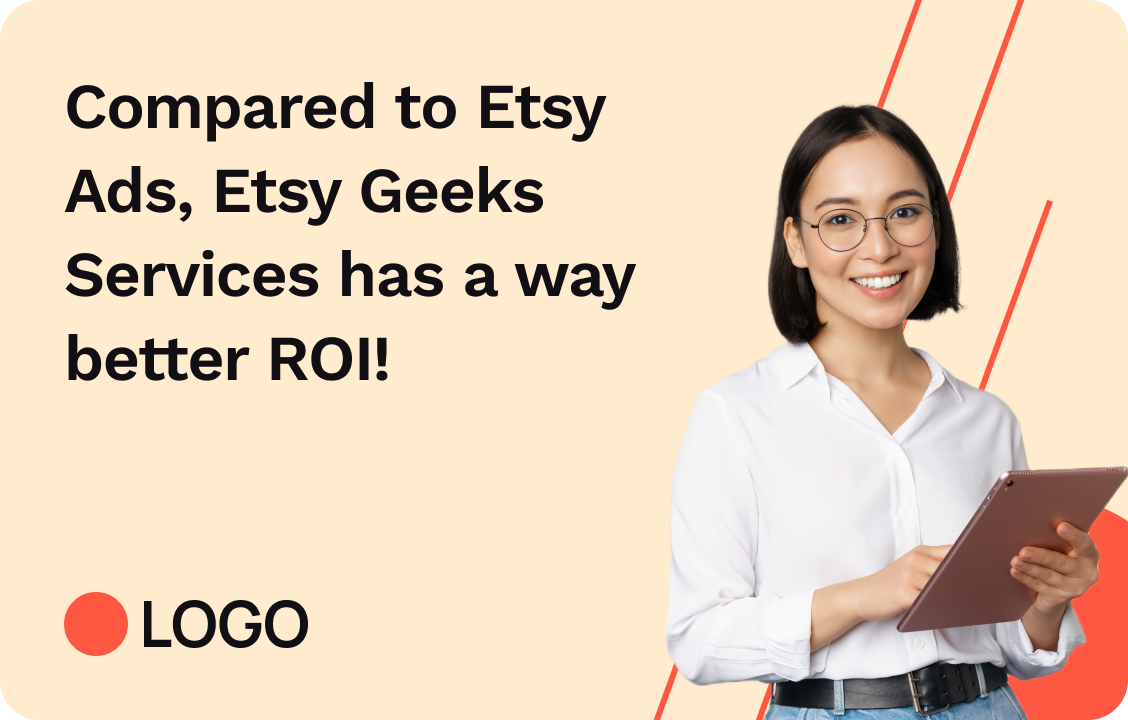
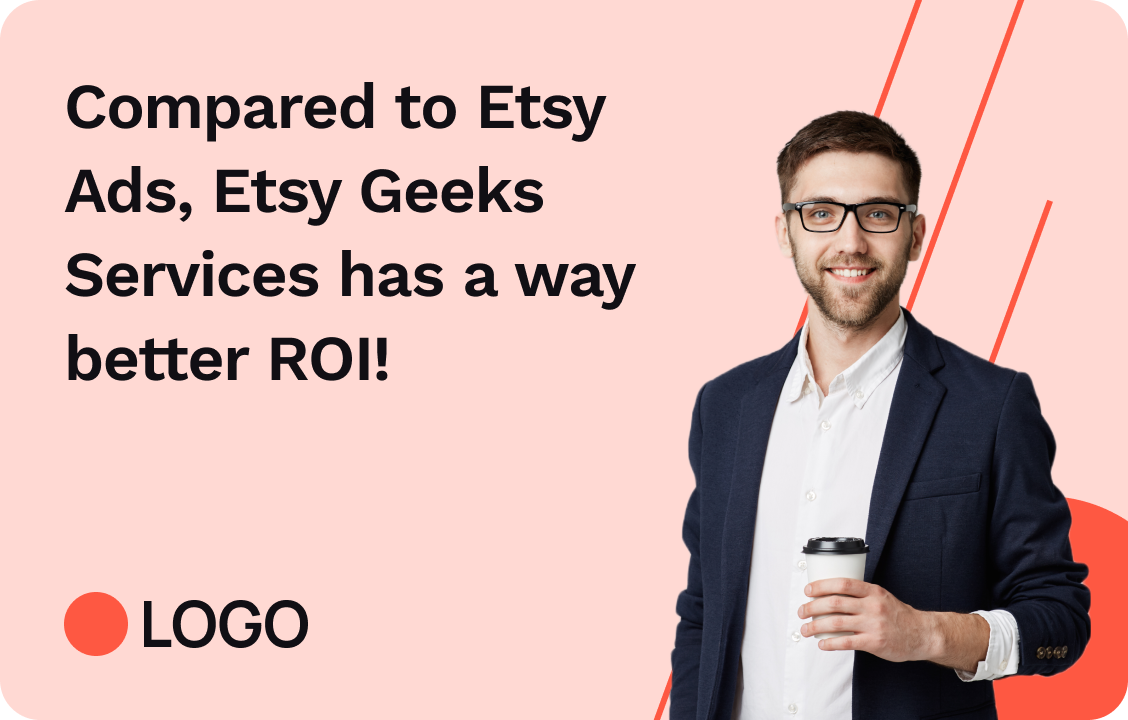
fix: change images

Changed region(s): [[0.5895, 0.1222, 1.0, 1.0]]

diff --git a/index.html b/index.html
@@ -12,7 +12,7 @@
 
   </head>
   <body>
-  <div id="overlay" onclick="off()"></div>
+  <div id="overlay"></div>
   <nav class="bg-rb-secondary fixed w-full z-20 top-0 left-0">
     <div class="container flex flex-wrap items-center justify-between mx-auto p-4">
       <a href="https://flowbite.com/" class="flex items-center">
@@ -526,9 +526,11 @@
         
         <div class="swiper swipperSuccessStory md:h-[24rem]">
           <div class="swiper-wrapper">
+            
+    
             <div class="swiper-slide swipper-success-story">
               <div class="rounded-[16px] block max-w-sm p-5 shadow-lg shadow-black-500/50 bg-white  shadow-black-500/50   hover:bg-gray-100 ">
-                <img src="./src/assets/images/rb_images_success_story-4.png" class="w-full h-auto sm:h-[150px]  md:h-[150px]  lg:h-[150px]  xl:h-auto  mb-[16px]" alt="">
+                <img src="./src/assets/images/rb_images_success_story-1.png" class="w-full h-auto sm:h-[150px]  md:h-[150px]  lg:h-[150px]  xl:h-auto  mb-[16px]" alt="">
               
                 <label for="" class="mt-4 text-bs-black-secondary text-[16px]	font-medium	">Jun 1, 2022</label>
                 <p class="text-bs-black-primary font-semibold text-[18px]	leading-[22px] h-[84px] mt-[8px]">Compared to Etsy Ads, Etsy Geeks Services has a way better ROI!</p>
@@ -543,7 +545,7 @@
             </div>
             <div class="swiper-slide">
               <div class="rounded-[16px] block max-w-sm p-5 shadow-lg shadow-black-500/50 bg-white  shadow-black-500/50   hover:bg-gray-100 ">
-                <img src="./src/assets/images/rb_images_success_story-4.png" class="w-full h-auto sm:h-[150px]  md:h-[150px]  lg:h-[150px]  xl:h-auto  mb-[16px]" alt="">
+                <img src="./src/assets/images/rb_images_success_story-2.png" class="w-full h-auto sm:h-[150px]  md:h-[150px]  lg:h-[150px]  xl:h-auto  mb-[16px]" alt="">
               
                 <label for="" class="mt-4 text-bs-black-secondary text-[16px]	font-medium	">Jun 1, 2022</label>
                 <p class="text-bs-black-primary font-semibold text-[18px]	leading-[22px] h-[84px] mt-[8px]">Compared to Etsy Ads, Etsy Geeks Services has a way better ROI!</p>
@@ -558,37 +560,7 @@
             </div>
             <div class="swiper-slide">
               <div class="rounded-[16px] block max-w-sm p-5 shadow-lg shadow-black-500/50 bg-white  shadow-black-500/50   hover:bg-gray-100 ">
-                <img src="./src/assets/images/rb_images_success_story-4.png" class="w-full h-auto sm:h-[150px]  md:h-[150px]  lg:h-[150px]  xl:h-auto  mb-[16px]" alt="">
-              
-                <label for="" class="mt-4 text-bs-black-secondary text-[16px]	font-medium	">Jun 1, 2022</label>
-                <p class="text-bs-black-primary font-semibold text-[18px]	leading-[22px] h-[84px] mt-[8px]">Compared to Etsy Ads, Etsy Geeks Services has a way better ROI!</p>
-                <div class="flex justify-start mt-[6px]">
-                  <a href="" class="flex items-center gap-3 text-[16px]	font-semibold	hover:text-bs-red-primary focus:text-bs-red-primary leading-[24px]"> Read More 
-                    <svg class="w-4 h-4 shrink-0" fill="none" stroke="currentColor" stroke-width="1.5" viewBox="0 0 24 24" xmlns="http://www.w3.org/2000/svg" aria-hidden="true">
-                    <path stroke-linecap="round" stroke-linejoin="round" d="M13.5 4.5L21 12m0 0l-7.5 7.5M21 12H3"></path>
-                  </svg>
-                  </a>
-                </div>
-            </div>
-            </div>
-            <div class="swiper-slide">
-              <div class="rounded-[16px] block max-w-sm p-5 shadow-lg shadow-black-500/50 bg-white  shadow-black-500/50   hover:bg-gray-100 ">
-                <img src="./src/assets/images/rb_images_success_story-4.png" class="w-full h-auto sm:h-[150px]  md:h-[150px]  lg:h-[150px]  xl:h-auto  mb-[16px]" alt="">
-              
-                <label for="" class="mt-4 text-bs-black-secondary text-[16px]	font-medium	">Jun 1, 2022</label>
-                <p class="text-bs-black-primary font-semibold text-[18px]	leading-[22px] h-[84px] mt-[8px]">Compared to Etsy Ads, Etsy Geeks Services has a way better ROI!</p>
-                <div class="flex justify-start mt-[6px]">
-                  <a href="" class="flex items-center gap-3 text-[16px]	font-semibold	hover:text-bs-red-primary focus:text-bs-red-primary leading-[24px]"> Read More 
-                    <svg class="w-4 h-4 shrink-0" fill="none" stroke="currentColor" stroke-width="1.5" viewBox="0 0 24 24" xmlns="http://www.w3.org/2000/svg" aria-hidden="true">
-                    <path stroke-linecap="round" stroke-linejoin="round" d="M13.5 4.5L21 12m0 0l-7.5 7.5M21 12H3"></path>
-                  </svg>
-                  </a>
-                </div>
-            </div>
-            </div>
-            <div class="swiper-slide">
-              <div class="rounded-[16px] block max-w-sm p-5 shadow-lg shadow-black-500/50 bg-white  shadow-black-500/50   hover:bg-gray-100 ">
-                <img src="./src/assets/images/rb_images_success_story-4.png" class="w-full h-auto sm:h-[150px]  md:h-[150px]  lg:h-[150px]  xl:h-auto  mb-[16px]" alt="">
+                <img src="./src/assets/images/rb_images_success_story-3.png" class="w-full h-auto sm:h-[150px]  md:h-[150px]  lg:h-[150px]  xl:h-auto  mb-[16px]" alt="">
               
                 <label for="" class="mt-4 text-bs-black-secondary text-[16px]	font-medium	">Jun 1, 2022</label>
                 <p class="text-bs-black-primary font-semibold text-[18px]	leading-[22px] h-[84px] mt-[8px]">Compared to Etsy Ads, Etsy Geeks Services has a way better ROI!</p>
@@ -679,25 +651,25 @@
                         <figcaption class="flex items-center justify-start space-x-3">
                           <img class="rounded-full w-9 h-9" src="./src/assets/images/rb_images_avatar-4.png" alt="profile picture">
                           <div class="space-y-0.5 font-medium dark:text-white text-left">
-                              <div class="text-[16px] text-bs-red-primary leading-[20px] font-semibold	">Joseph McFall</div>
+                              <div class="text-[16px] text-bs-red-primary leading-[20px] font-semibold	">Stevano William</div>
                               <div class="text-[16px] text-bs-black-secondary leading-[20px] font-normal	">Jun 1, 2022</div>
                             </div>
                       </figcaption>
                       <hr class="my-5">
                       <div class="flex items-center bg-white gap-3 p-4 rounded-xl	">
-                        <img class="w-5 sm:w-11 md:w-5 lg:w-11 xl:w-11 h-5 sm:h-11 md:h-5 lg:h-11 xl:h-11" src="./src/assets/logo/ic_start.svg" alt="">
+                        <img class="w-5 sm:w-11 md:w-5 lg:w-11 xl:w-11 h-5 sm:h-11 md:h-5 lg:h-11 xl:h-11" src="./src/assets/images/rb_images_bhw.png" alt="">
                         <a href="" class="text-bs-black-primary font-semibold	text-sm sm:text-lg md:text-sm lg:text-lg xl:text-lg underline	underline-offset-1">On BlackHatWorld.com</a>
                       </div>
                       </div>
                     </div>
                     <div class="swiper-slide">
                       <div href="#" class="block max-w-sm p-[16px] sm:p-[32px] md:p-[32px] lg:p-[32px] xl:p-[32px] bg-bs-background-bg_1 rounded-lg  hover:bg-gray-100 ">
-                        <h5 class="font-semibold h-[140px] sm:h-[224px] md:h-[224px] lg:h-[224px] xl:h-[224px] leading-[24px] text-sm sm:text-[18px] md:text-[18px] lg:text-[18px] xl:text-[18px] text-bs-black-primary dark:text-white mb-4">I'm happy with the improvement of my sales since I started subscribing to one of the packages the 50k- 100k Medium Competition Keyword. Amazing service for Etsy ranking.</h5>
+                        <h5 class="font-semibold h-[140px] sm:h-[224px] md:h-[224px] lg:h-[224px] xl:h-[224px] leading-[24px] text-sm sm:text-[18px] md:text-[18px] lg:text-[18px] xl:text-[18px] text-bs-black-primary dark:text-white mb-4">I'm happy with the improvement of my sales since I started subscribing to one of the packages the 50k- 100k Medium Competition Keyword. Amazing service for Etsy ranking.  Quam ultrices felis amet eu mauris.  Quam ultrices felis. </h5>
                         <figcaption class="flex items-center justify-start space-x-3">
                           <img class="rounded-full w-9 h-9" src="./src/assets/images/rb_images_avatar-2.png" alt="profile picture">
                           <div class="space-y-0.5 font-medium dark:text-white text-left">
-                            <div class="text-[16px] text-bs-red-primary leading-[20px] font-semibold	">Joseph McFall</div>
-                            <div class="text-[16px] text-bs-black-secondary leading-[20px] font-normal	">Jun 1, 2022</div>
+                            <div class="text-[16px] text-bs-red-primary leading-[20px] font-semibold	">Fabian Humphrey</div>
+                            <div class="text-[16px] text-bs-black-secondary leading-[20px] font-normal	">Apr 16, 2022</div>
                           </div>
                       </figcaption>
                       <hr class="my-5">
@@ -713,8 +685,8 @@
                             <figcaption class="flex items-center justify-start space-x-3">
                               <img class="rounded-full w-9 h-9" src="./src/assets/images/rb_images_avatar-3.png" alt="profile picture">
                               <div class="space-y-0.5 font-medium dark:text-white text-left">
-                                <div class="text-[16px] text-bs-red-primary leading-[20px] font-semibold	">Joseph McFall</div>
-                                <div class="text-[16px] text-bs-black-secondary leading-[20px] font-normal	">Jun 1, 2022</div>
+                                <div class="text-[16px] text-bs-red-primary leading-[20px] font-semibold	">Jayson Parker</div>
+                                <div class="text-[16px] text-bs-black-secondary leading-[20px] font-normal	">Jun 8, 2022</div>
                               </div>
                           </figcaption>
                           <hr class="my-5">
@@ -730,7 +702,7 @@
                           <figcaption class="flex items-center justify-start space-x-3">
                             <img class="rounded-full w-9 h-9" src="https://flowbite.s3.amazonaws.com/blocks/marketing-ui/avatars/joseph-mcfall.png" alt="profile picture">
                             <div class="space-y-0.5 font-medium dark:text-white text-left">
-                              <div class="text-[16px] text-bs-red-primary leading-[20px] font-semibold	">Joseph McFall</div>
+                              <div class="text-[16px] text-bs-red-primary leading-[20px] font-semibold	">Keziah Herrera</div>
                               <div class="text-[16px] text-bs-black-secondary leading-[20px] font-normal	">Jun 1, 2022</div>
                             </div>
                         </figcaption>
@@ -744,7 +716,7 @@
                   </div>
                   <div class="swiper-pagination"></div>
                 </div>
-
+ 
                 <div class="visible sm:hidden md:hidden lg:hidden xl:hidden flex justify-center items-center pb-4 mb-[56px]">
                   <div class="flex justify-end items-center">
                     <button type="button" class=" hover:border-bs-black-primary swiper-button-prev-review flex rounded-xl hover:border-current		 border p-2 justify-center items-center mr-4 h-full cursor-pointer group focus:outline-none" data-carousel-prev>
@@ -994,9 +966,9 @@
      
     });
 
-    function off() {
-      document.getElementById("overlay").style.display = "none";
-    }
+    // function off() {
+    //   document.getElementById("overlay").style.display = "none";
+    // }
   </script>
   </body>
 </html>
